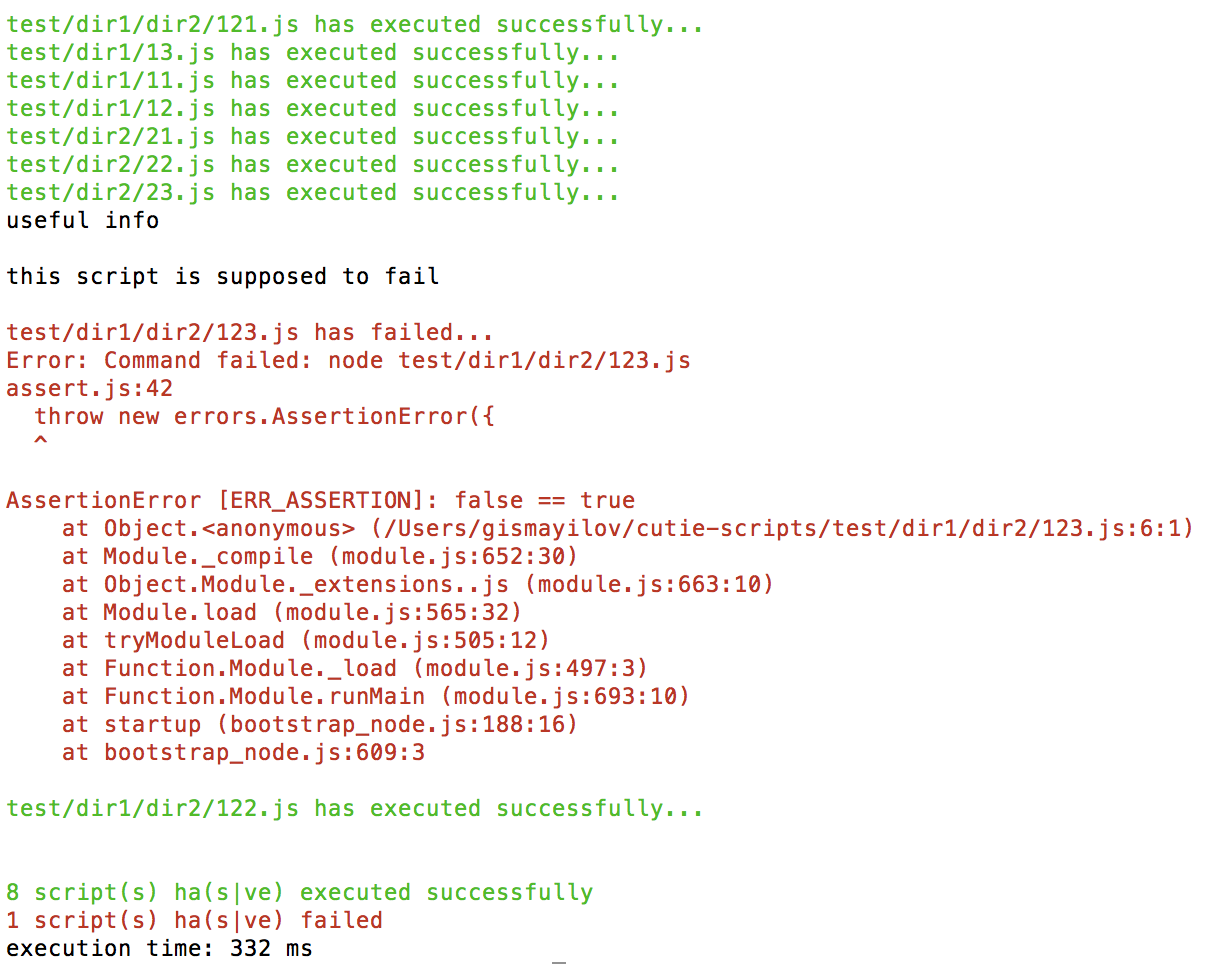
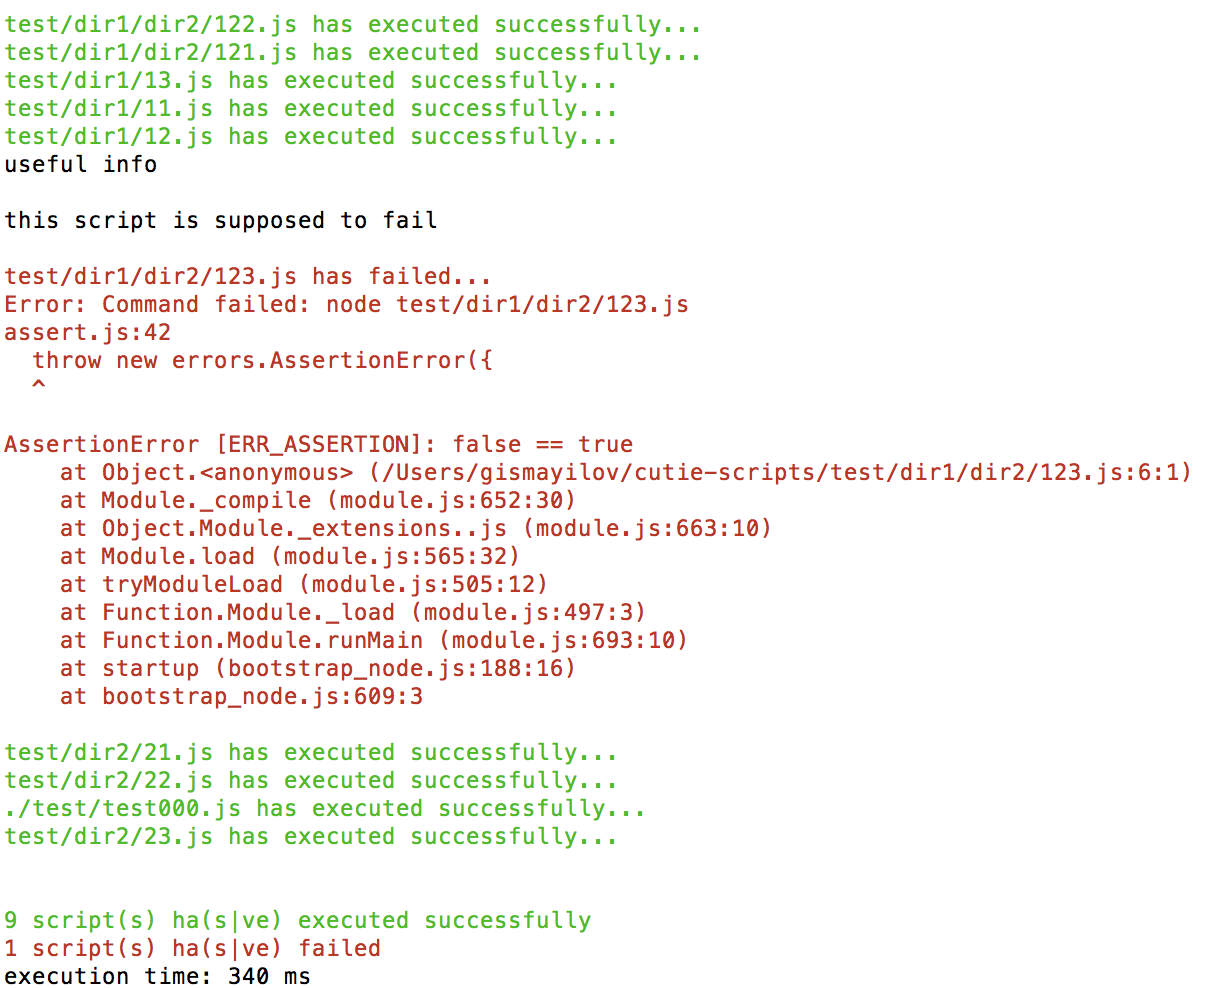
Make ExecutedScripts execute specified scripts.

diff --git a/src/custom-calls/readFilesOfDirecotryRecursively.js b/src/custom-calls/readFilesOfDirecotryRecursively.js
@@ -8,42 +8,53 @@ const readDir = (dir, options, callback, retrievedFiles, dirsCountObj) => {
   if (!dirsCountObj) {
     dirsCountObj = {count: 1}
   }
-  fs.readdir(dir, options, (error, files) => {
+  fs.stat(dir, (error, stats) => {
     if (error) {
       callback(error);
     } else {
-      let filesCount = 0;
-      if (files.length === 0) {
-        dirsCountObj.count -= 1;
-        if (dirsCountObj.count === 0) {
-          callback(null, retrievedFiles);
-        }
-      }
-      files.forEach(file => {
-        let fullPathFile = path.join(dir, file);
-        fs.stat(fullPathFile, (error, stats) => {
+      if (stats.isFile()) {
+        retrievedFiles.push(dir);
+        callback(null, retrievedFiles);
+      } else {
+        fs.readdir(dir, options, (error, files) => {
           if (error) {
             callback(error);
           } else {
-            filesCount += 1;
-            if (stats.isDirectory()) {
-              dirsCountObj.count += 1;
-              if (filesCount === files.length) {
-                dirsCountObj.count -= 1;
-              }
-              readDir(fullPathFile, options, callback, retrievedFiles, dirsCountObj);
-            } else if (stats.isFile()) {
-              retrievedFiles.push(fullPathFile);
-              if (filesCount === files.length) {
-                dirsCountObj.count -= 1;
-                if (dirsCountObj.count === 0) {
-                  callback(null, retrievedFiles);
-                }
+            let filesCount = 0;
+            if (files.length === 0) {
+              dirsCountObj.count -= 1;
+              if (dirsCountObj.count === 0) {
+                callback(null, retrievedFiles);
               }
             }
+            files.forEach(file => {
+              let fullPathFile = path.join(dir, file);
+              fs.stat(fullPathFile, (error, stats) => {
+                if (error) {
+                  callback(error);
+                } else {
+                  filesCount += 1;
+                  if (stats.isDirectory()) {
+                    dirsCountObj.count += 1;
+                    if (filesCount === files.length) {
+                      dirsCountObj.count -= 1;
+                    }
+                    readDir(fullPathFile, options, callback, retrievedFiles, dirsCountObj);
+                  } else if (stats.isFile()) {
+                    retrievedFiles.push(fullPathFile);
+                    if (filesCount === files.length) {
+                      dirsCountObj.count -= 1;
+                      if (dirsCountObj.count === 0) {
+                        callback(null, retrievedFiles);
+                      }
+                    }
+                  }
+                }
+              });
+            });
           }
         });
-      });
+      }
     }
   });
 }

diff --git a/src/ExecutedScripts.js b/src/ExecutedScripts.js
@@ -5,11 +5,11 @@ const ReadFilesOfDirectories = require('./ReadFilesOfDirectories');
 const NodeCommandLines = require('./NodeCommandLines');
 const ExecutedCommands = require('./ExecutedCommands');
 
-module.exports = function (...dirs) {
+module.exports = function (...files) {
   let filesFromDirs = [];
-  dirs.forEach(dir => {
+  files.forEach(file => {
     filesFromDirs.push(
-      new ReadFilesOfDirectoryRecursively(dir)
+      new ReadFilesOfDirectoryRecursively(file)
     );
   });
   return new ExecutedCommands(

diff --git a/example.js b/example.js
@@ -2,4 +2,4 @@ const {
   ExecutedScripts
 } = require('./index');
 
-new ExecutedScripts('./test/dir1', './test/dir2').call();
+new ExecutedScripts('./test/dir1', './test/dir2', './test/test000.js').call();

diff --git a/test/test000.js b/test/test000.js
@@ -1,0 +1,3 @@
+const assert = require('assert');
+
+assert(true);

diff --git a/README.md b/README.md
@@ -1,5 +1,5 @@
 # cutie-scripts
-Cutie extension for execution all js scripts in a directory or directories.
+Cutie extension for execution all js scripts in a directory or directories. Also it's possible just to specify concrete scripts.
 
 [![NPM Version][npm-image]][npm-url]
 
@@ -10,7 +10,7 @@ const {
   ExecutedScripts
 } = require('@cuties/scripts');
 
-new ExecutedScripts('./test/dir1', './test/dir2').call();
+new ExecutedScripts('./test/dir1', './test/dir2', './test/test000.js').call();
 
 ```
 
